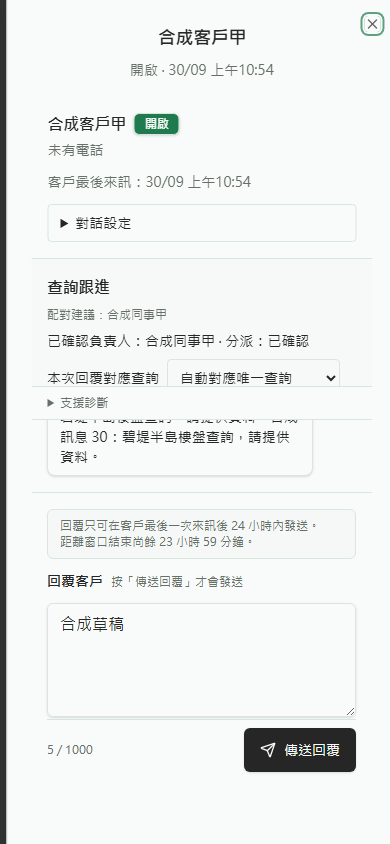
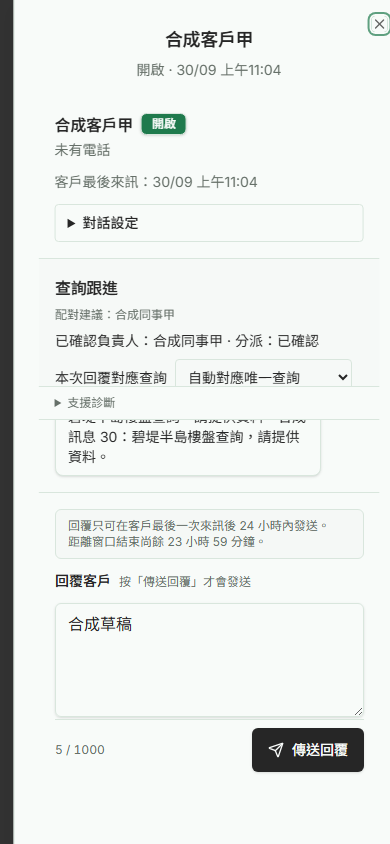
docs: stamp font-matched inbox browser results

diff --git a/docs/reports/2026-09-29-no-link-release-readiness.md b/docs/reports/2026-09-29-no-link-release-readiness.md
@@ -20,7 +20,7 @@
 | Existing suites                            | `test:whatsapp-enquiries` 103/103; `test:woztell` 151 Node + 8 Bun; `test:analytics` 65 Node + 3 Bun; `test:control-plane` 104/104; `test:command-center` and `test:staff-notifications` exit 0                                                       | prior explicit external DB skips remain skips                                                                                                   |
 | Static/build                               | `typecheck` exit 0; `lint` exit 0 with 3 React Refresh warnings; isolated `build` exit 0                                                                                                                                                              | first parallel build had Windows routeTree rename EPERM, then standalone build passed                                                           |
[1 lines of base64/hex data omitted]
-| UI full actions / presentation             | Full role/DB action acceptance 0/1,291: 812 BLOCKED_EXTERNAL, 479 NOT_TESTED. Separately real-route synthetic Auth/API Chromium 23/23; four controls have presentation evidence (4/1,291). Original 1,261 source controls retained; 14 new candidates | Real Auth/DB role browser and provider evidence remain blocked                                                                                  |
+| UI full actions / presentation             | Full role/DB action acceptance 0/1,291: 812 BLOCKED_EXTERNAL, 479 NOT_TESTED. Separately real-route synthetic Auth/API Chromium 24/24; four controls have presentation evidence (4/1,291). Original 1,261 source controls retained; 14 new candidates | Real Auth/DB role browser and provider evidence remain blocked                                                                                  |
 | UC/AC                                      | 18/18 UCs mapped to local evidence and remaining gates, **0/18 full acceptance**; original 76 AC rows retained as NOT_TESTED: 68 UC-specific IDs plus eight cross-cutting IDs mapped in `2026-09-29-no-link-uc-results.csv`                           | mandatory browser/Neon/provider/live data gates pending                                                                                         |
 | Provider/live                              | no real send, assignment or delivery receipt; no formal-site signed inbound                                                                                                                                                                           | external authorization/test tenant unavailable                                                                                                  |
 
@@ -54,4 +54,4 @@ Before any production decision, perform the runbook's isolated Neon identity/upg
 
 ## 2026-09-30 local browser continuation
 
-Code `473d2c9` closes three additional UI defects: staff names/state display, numeric search deep-link crash and latest-message clipping after asynchronous evidence layout. `acceptance:whatsapp-no-link:synthetic` passes 23/23 at that committed SHA; real TanStack route, AdminShell and CSS, synthetic Auth/API only. This is a separate UI layer, not signed-in HTTP/DB/provider acceptance. New CI browser-no-link job runs it without credentials. See `2026-09-30-no-link-browser-verification.md` and its JSON/screenshot. No migration, dependency, production config or activation change.
+Code `473d2c9` closes three additional UI defects: staff names/state display, numeric search deep-link crash and latest-message clipping after asynchronous evidence layout. `acceptance:whatsapp-no-link:synthetic` passes 24/24 at that committed SHA; real TanStack route, AdminShell and CSS, synthetic Auth/API only. This is a separate UI layer, not signed-in HTTP/DB/provider acceptance. New CI browser-no-link job runs it without credentials. See `2026-09-30-no-link-browser-verification.md` and its JSON/screenshot. No migration, dependency, production config or activation change.

diff --git a/docs/reports/2026-09-30-no-link-browser-verification.md b/docs/reports/2026-09-30-no-link-browser-verification.md
@@ -2,7 +2,7 @@
 
 結果：**LOCAL_UI_VERIFIED / VERIFICATION_BLOCKED for release**。
 
-Code commit：`473d2c9d5271346e5fb3a579bb1fe2499e400378`。同一 PR #206 的隔離 worktree；根 checkout 的現有修改保留。
+Product code commit：`473d2c9d5271346e5fb3a579bb1fe2499e400378`；fixture font correction及最新 committed run：`93922854205fa0fb011bfe2af50f618d45c215ef`。同一 PR #206 的隔離 worktree；根 checkout 的現有修改保留。
 
 ## 三項新發現及修復
 
@@ -14,15 +14,15 @@ Code commit：`473d2c9d5271346e5fb3a579bb1fe2499e400378`。同一 PR #206 的隔
 
 ## 環境及證據界線
 
-Command：`npm.cmd run acceptance:whatsapp-no-link:synthetic`，exit 0，**23/23，零 skip**。Node 24.18.0、Chromium 151.0.7922.34、Windows；CI 另用 lockfile 對應的 Linux Chromium revision。
+Command：`npm.cmd run acceptance:whatsapp-no-link:synthetic`，exit 0，**24/24，零 skip**。Node 24.18.0、Chromium 151.0.7922.34、Windows；CI 另用 lockfile 對應的 Linux Chromium revision。
 
-Fixture 由 Vite 載入真正 `/admin/whatsapp` TanStack route、AdminShell、staff-session store、React components、Radix dialogs 及 repository Tailwind CSS。Test-only alias 替換 Auth hook 和 API imports；不修改正式 app 的 Vite config、routes 或 server adapters。這是 UI presentation／state regression，沒有真 JWT、HTTP server-function authorization、DB 或 provider。模擬角色拒絕畫面不能當作 server 越權拒絕證據；後者仍使用既有 SQL／local Postgres tests 分開記錄。
+Fixture 由 Vite 載入真正 `/admin/whatsapp` TanStack route、AdminShell、staff-session store、React components、Radix dialogs 及 repository Tailwind CSS，以及與正式 root 相同的 Inter 400/500/600/700、Noto Sans TC Variable 本地字型。每次導航及 reload 等候 document.fonts.ready；額外 case 確認本地 font faces 已載入。Test-only alias 替換 Auth hook 和 API imports；不修改正式 app 的 Vite config、routes 或 server adapters。這是 UI presentation／state regression，沒有真 JWT、HTTP server-function authorization、DB 或 provider。模擬角色拒絕畫面不能當作 server 越權拒絕證據；後者仍使用既有 SQL／local Postgres tests 分開記錄。
 
-Runner 自建隨機 port 的 127.0.0.1 server；拒絕外來 `PLAYWRIGHT_BASE_URL`；asset path 留在自己的 `.audit` build directory。Builder 在清理 outDir 前核對 checkout 及絕對 target。CSP 和 Playwright 同時限制 network；只有此 origin 的 GET／HEAD，所有 external／mutation request 都令測試失敗。UI mutation adapters 禁止寫入，23 個 case 的 mutation call 數均為零。正常 API 的 `ai-read` 是合成已存建議讀取，不調 LLM。
+Runner 自建隨機 port 的 127.0.0.1 server；拒絕外來 `PLAYWRIGHT_BASE_URL`；asset path 留在自己的 `.audit` build directory。Builder 在清理 outDir 前核對 checkout 及絕對 target。CSP 和 Playwright 同時限制 network；只有此 origin 的 GET／HEAD，所有 external／mutation request 都令測試失敗。UI mutation adapters 禁止寫入，24 個 case 的 mutation call 數均為零。正常 API 的 `ai-read` 是合成已存建議讀取，不調 LLM。
 
 Desktop case 依一般 document scroll 回到 workspace 後驗 composer；沒有聲稱 desktop 首屏免捲動。390×500 是縮短 viewport 的鍵盤模擬，不是真手機軟鍵盤。`isComposing` 是合成 keyboard event，不是真 OS 輸入法測試。360／390／768px 最新長訊息要求至少 25% viewport ratio；傳送按鈕要求完全在 viewport 內。
 
-完整機器結果：[23-case JSON](2026-09-30-no-link-browser-results.json)；390px 合成畫面：[screenshot](2026-09-30-no-link-browser-390.png)。Runner 在 finally 關閉 browser、contexts 及自己建立的 server。原依賴真正登入 fixture 的 `e2e/whatsapp-no-link.spec.ts`／safe runner 保留，未標成 PASS。
+完整機器結果：[24-case JSON](2026-09-30-no-link-browser-results.json)；390px 合成畫面：[screenshot](2026-09-30-no-link-browser-390.png)。Runner 在 finally 關閉 browser、contexts 及自己建立的 server。原依賴真正登入 fixture 的 `e2e/whatsapp-no-link.spec.ts`／safe runner 保留，未標成 PASS。
 
 ## 已測 scenarios
 

diff --git a/docs/runbooks/whatsapp-no-link-rollout.md b/docs/runbooks/whatsapp-no-link-rollout.md
@@ -44,6 +44,6 @@ Staff offboarding also needs a reviewed no-link enquiry handover: `inquiries.enq
 
 ## Local UI presentation check (2026-09-30)
 
-Run `npm.cmd run acceptance:whatsapp-no-link:synthetic` from the isolated checkout, with PLAYWRIGHT_BASE_URL unset. It builds the real inbox route/shell/CSS using test-only Auth/API aliases, owns a loopback server and forbids external/mutation requests. Install only the lockfile Chromium revision when absent. Expected 23/23, zero skip; a NO_LINK_BROWSER_CHECK_FILTER run reports filtered cases as skips and is not the full acceptance run. Report and screenshot are under .audit; commit-stamped evidence is in docs/reports/2026-09-30-no-link-browser-verification.md.
+Run `npm.cmd run acceptance:whatsapp-no-link:synthetic` from the isolated checkout, with PLAYWRIGHT_BASE_URL unset. It builds the real inbox route/shell/CSS using test-only Auth/API aliases, owns a loopback server and forbids external/mutation requests. Install only the lockfile Chromium revision when absent. Expected 24/24, zero skip; a NO_LINK_BROWSER_CHECK_FILTER run reports filtered cases as skips and is not the full acceptance run. Report and screenshot are under .audit; commit-stamped evidence is in docs/reports/2026-09-30-no-link-browser-verification.md.
 
 This does not satisfy the real authenticated multi-role/Neon/provider browser gate. The existing e2e/whatsapp-no-link.spec.ts fixture/storage-state preflight remains mandatory before canary. No production URL, secret, provider send or DB config is needed for the presentation check. Current inventory denominator is 1,291 after adding the support diagnostics disclosure; preserve all original 76 ACs/1,261 source controls. The three frontend corrections need no new migration or effects activation. The existing shadow/canary/production/rollback order remains unchanged.

diff --git a/docs/reports/2026-09-29-no-link-fix-ledger.md b/docs/reports/2026-09-29-no-link-fix-ledger.md
@@ -165,3 +165,5 @@
 - No migration/dependency/config/activation change; previous 78-file clean/upgrade/no-op Postgres rehearsal remains historical evidence. Provider ports/mutations not invoked; fresh browser contexts and loopback server closed in finally. Names originate in current authorized DTO, no Terence production ID guessed. Daily UI diagnostics stay optional.
 - Ruling: synthetic Auth/API browser is a separate presentation layer — closes local UI reproducibility without inventing real login/DB/provider proof — costs continued real authenticated browser gate. Desktop normal document scroll is exercised rather than claiming every control is above the fold. CSS visibility was insufficient; latest-message test now uses actual viewport intersection. Fixture import/URL-serialization/Operations-nav expectation setup errors are separate from product RED.
 - Added support-diagnostics candidate keeps inventory current: 1,291 total, original 1,261 source controls retained. Four controls get presentation PASS only; full action denominator 0/1,291 (812 BLOCKED_EXTERNAL, 479 NOT_TESTED). 18 UCs/76 original AC IDs remain BLOCKED. Complete report: 2026-09-30-no-link-browser-verification.md. Single-agent author self-review, not independent review.
+
+- Fixture font follow-up: compare real __root imports, load the same self-hosted Inter/Noto Sans TC fonts, await font readiness on navigation/reload and assert faces exist. Commit 93922854205fa0fb011bfe2af50f618d45c215ef; committed browser run exit 0, 24/24, zero skip. Product code unchanged. Latest JSON/screenshot supersede the earlier 23-case artifacts; the earlier run remains historical ledger evidence. Remote run 36662363596 at 6a8d62a passed ci, browser-no-link (23 cases), browser-handoff and local Postgres; staging skipped. Current-head font CI will be read back separately.

diff --git a/docs/reports/2026-09-29-no-link-performance.md b/docs/reports/2026-09-29-no-link-performance.md
@@ -31,4 +31,4 @@ The old audit recorded 3 PASS source controls, 805 BLOCKED and 453 NOT_TESTED so
 
 ## 2026-09-30 UI continuation
 
-The T14 coverage snapshot above is historical. Current inventory has 1,291 records (original 1,277 + 14 candidates), retaining all 1,261 original controls. Full role/DB action acceptance remains 0/1,291 (812 BLOCKED_EXTERNAL, 479 NOT_TESTED). New CSV presentation columns record four rendered controls separately; all other presentation rows remain NOT_TESTED. A real-route synthetic Auth/API browser now passes 23/23, including 360/390/768/1280, draft/refresh, late response, dialog Escape, synthetic composing Enter and a 390x500 viewport. Desktop uses normal document scroll; OS IME and physical soft keyboard are not exercised. This does not replace real Auth/DB browser, receipt-lag or Neon multi-session performance gates. See `2026-09-30-no-link-browser-verification.md`.
+The T14 coverage snapshot above is historical. Current inventory has 1,291 records (original 1,277 + 14 candidates), retaining all 1,261 original controls. Full role/DB action acceptance remains 0/1,291 (812 BLOCKED_EXTERNAL, 479 NOT_TESTED). New CSV presentation columns record four rendered controls separately; all other presentation rows remain NOT_TESTED. A real-route synthetic Auth/API browser now passes 24/24, including 360/390/768/1280, draft/refresh, late response, dialog Escape, synthetic composing Enter and a 390x500 viewport. Desktop uses normal document scroll; OS IME and physical soft keyboard are not exercised. This does not replace real Auth/DB browser, receipt-lag or Neon multi-session performance gates. See `2026-09-30-no-link-browser-verification.md`.
